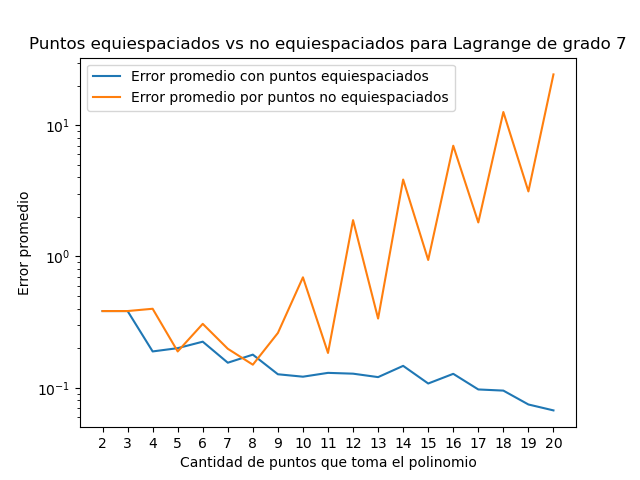
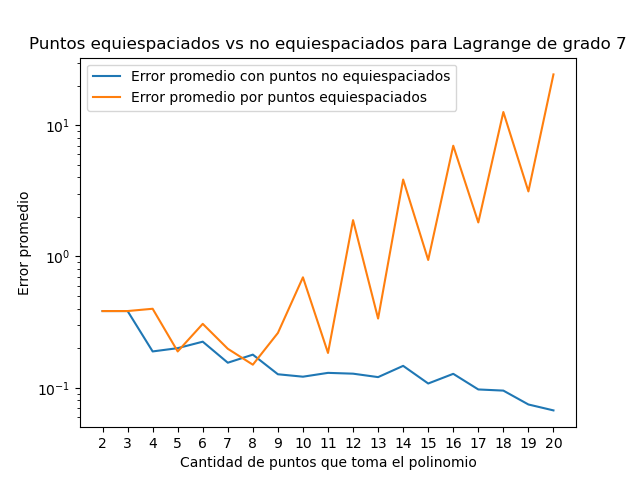
update

Changed region(s): [[0.5, 0.125, 0.7188, 0.2188]]

diff --git a/ej1a_no_equiespaciado.py b/ej1a_no_equiespaciado.py
@@ -20,20 +20,20 @@ def main():
 
     lagrangiano =sci.lagrange(x, y)
     
-    # print("error absoluto para", 8,"puntos:", error_máximo(coords_x, coords_y, coords_x, lagrangiano(coords_x)))
-    # print("error promedio para", 8, "puntos:", error_promedio(coords_x, coords_y, coords_x, lagrangiano(coords_x)))
+    print("error absoluto para", 8,"puntos:", error_máximo(coords_x, coords_y, coords_x, lagrangiano(coords_x)))
+    print("error promedio para", 8, "puntos:", error_promedio(coords_x, coords_y, coords_x, lagrangiano(coords_x)))
     
-    # plt.plot(coords_x, errores_sobre_dom(coords_x, coords_y, coords_x, lagrangiano(coords_x)))
-    # plt.show()
-
-    plt.title("Interpolación por polinomio de Lagrange no equiespaciado")
-    plt.plot(coords_x, coords_y, color='k', label='Función original')
-    plt.plot(coords_x, lagrangiano(coords_x), label='Polinomio de Lagrange de grado 7')
-    plt.scatter(x, y, label='Puntos no equiespaciados')
-    plt.xlabel('x')
-    plt.ylabel('y')
-    plt.legend()
+    plt.plot(coords_x, errores_sobre_dom(coords_x, coords_y, coords_x, lagrangiano(coords_x)))
     plt.show()
+
+    # plt.title("Interpolación por polinomio de Lagrange no equiespaciado")
+    # plt.plot(coords_x, coords_y, color='k', label='Función original')
+    # plt.plot(coords_x, lagrangiano(coords_x), label='Polinomio de Lagrange de grado 7')
+    # plt.scatter(x, y, label='Puntos no equiespaciados')
+    # plt.xlabel('x')
+    # plt.ylabel('y')
+    # plt.legend()
+    # plt.show()
 
 
 

diff --git a/comparacion_error_prom1a.py b/comparacion_error_prom1a.py
@@ -8,17 +8,17 @@ def main():
     coords_y = fa(coords_x)
     puntos = [int(k) for k in range(2,21)]
 
-    # plt.title("Puntos equiespaciados vs no equiespaciados para Lagrange de grado 7")
-    # plt.plot(puntos, errores_promedio_no_equiespaciados(coords_x, coords_y), label="Error promedio con puntos equiespaciados")
-    # plt.plot(puntos, errores_promedio(coords_x, coords_y), label="Error promedio por puntos no equiespaciados")
-    # plt.ylabel("Error promedio")
-    # plt.xlabel("Cantidad de puntos que toma el polinomio")
-    # plt.legend()
-    # plt.yscale('log')
-    # plt.xscale('linear')
-    # plt.xticks(np.arange(2, 21, step=1))
+    plt.title("Puntos equiespaciados vs no equiespaciados para Lagrange de grado 7")
+    plt.plot(puntos, errores_promedio_no_equiespaciados(coords_x, coords_y), label="Error promedio con puntos no equiespaciados")
+    plt.plot(puntos, errores_promedio(coords_x, coords_y), label="Error promedio por puntos equiespaciados")
+    plt.ylabel("Error promedio")
+    plt.xlabel("Cantidad de puntos que toma el polinomio")
+    plt.legend()
+    plt.yscale('log')
+    plt.xscale('linear')
+    plt.xticks(np.arange(2, 21, step=1))
     
-    # plt.show()
+    plt.show()
 
 
 
